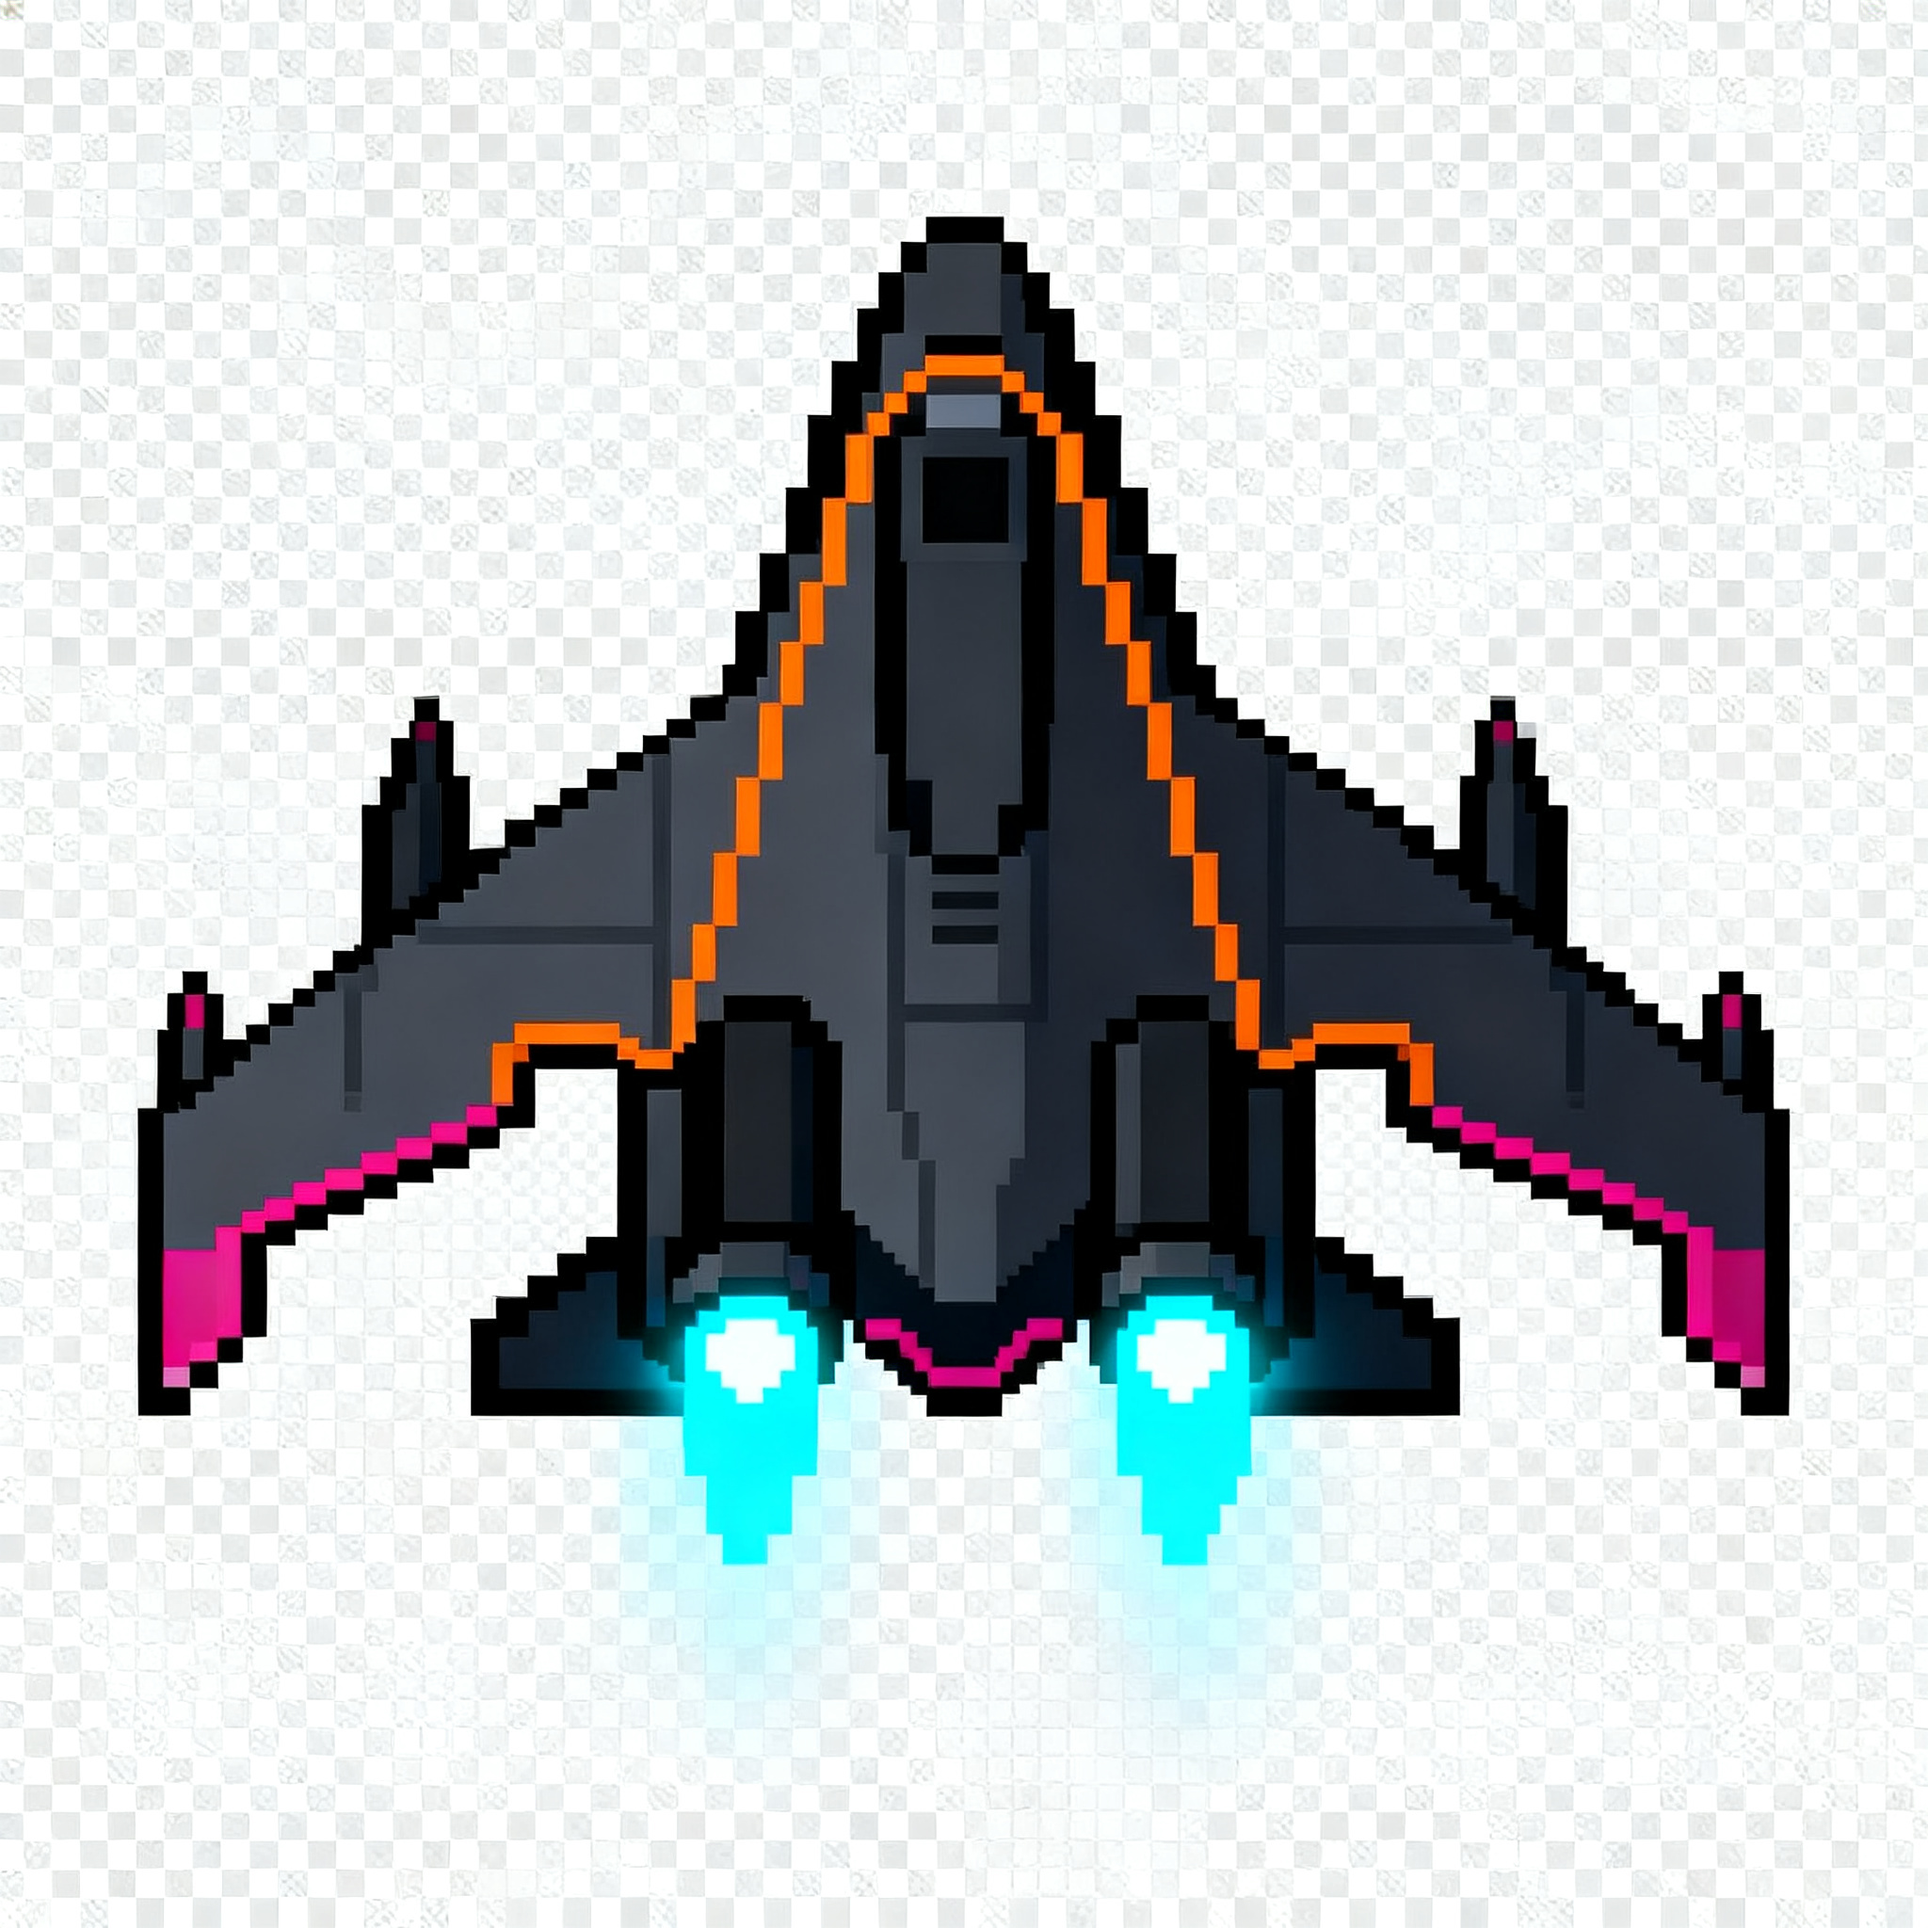
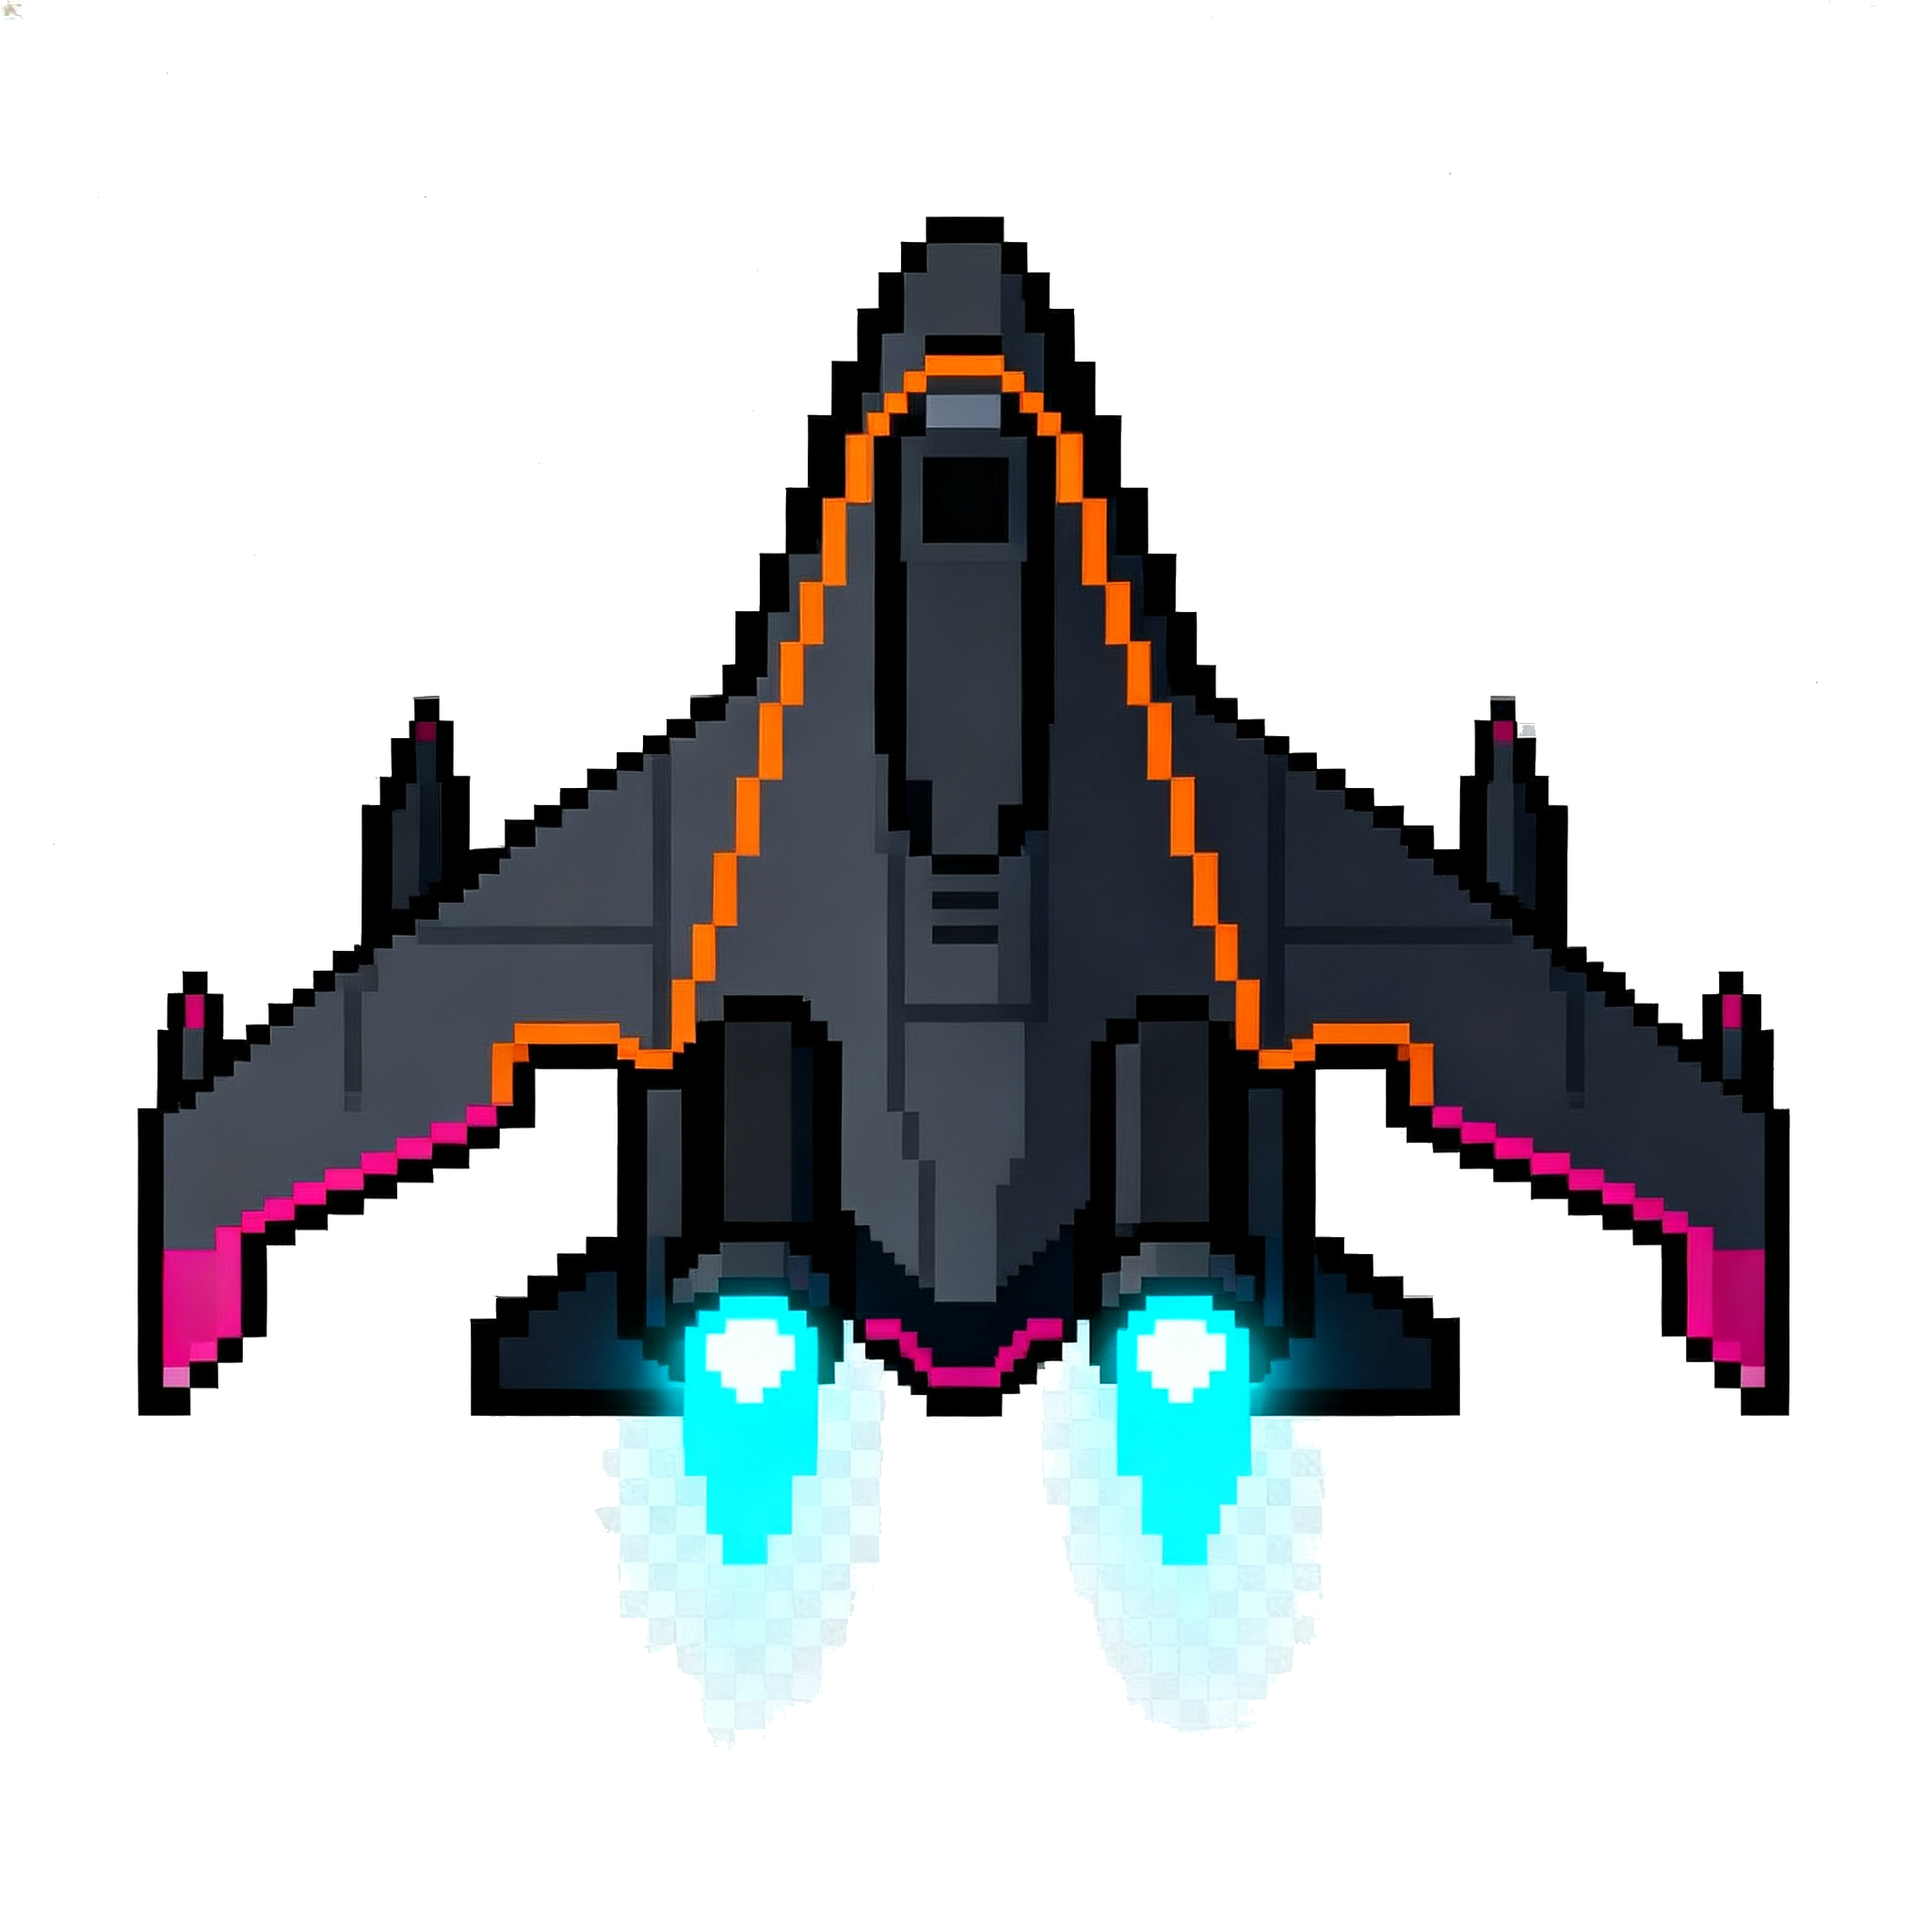
Strip baked-in checker background from ship sprites
The source PNGs were exported as RGB (no alpha channel), so the
transparency checker rendered as a real white-ish box around each
ship on the starfield. Flood-filled the checker color from the edges
inward (stops at the dark ship outlines) and re-saved each as RGBA.

Cynthia's source used a slightly darker green-tinged checker, so she
got a second pass with a looser threshold. All four files now have
fully transparent backgrounds and dropped from 3–5 MB to 0.8–1.5 MB
each after PNG optimization.

Bumped SW cache to v6.

diff --git a/service-worker.js b/service-worker.js
@@ -1,6 +1,6 @@
 /* Earthline Defender — service worker
    Cache-first offline shell for the single-file game. */
-const CACHE='earthline-v5';
+const CACHE='earthline-v6';
 const ASSETS=[
   './',
   './index.html',
